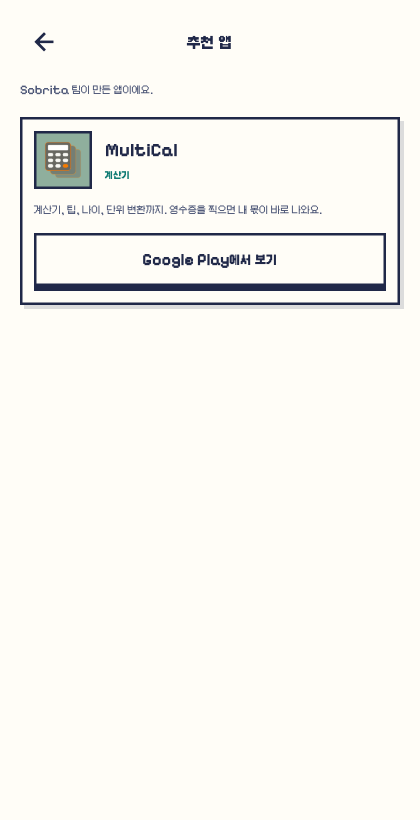
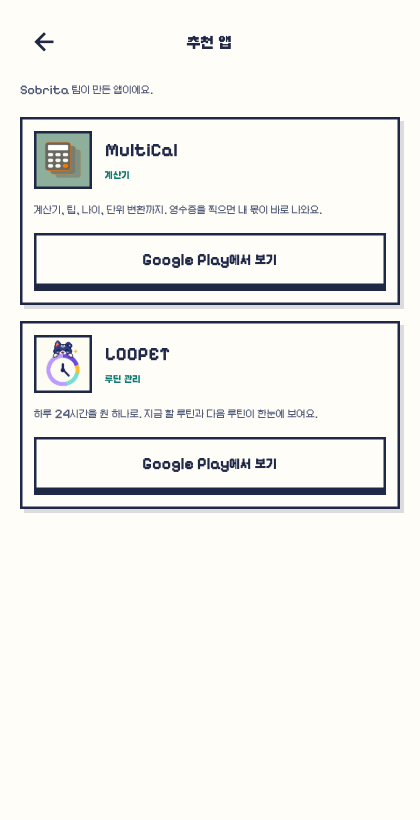
feat: add LOOPET to recommended apps
Include the official LOOPET icon, Google Play package, and descriptions in all seven locales. Refresh the Spanish and Korean recommendation screen goldens.

Validation: all 8 tests in test/our_apps_test.dart passed; git diff --check passed.

Changed region(s): [[0.031, 0.3659, 0.9595, 0.6402]]

diff --git a/lib/data/our_apps.dart b/lib/data/our_apps.dart
@@ -47,4 +47,11 @@ final ourApps = <OurApp>[
     kind: (l10n) => l10n.ourAppsMultiCalKind,
     blurb: (l10n) => l10n.ourAppsMultiCalBlurb,
   ),
+  OurApp(
+    packageName: 'com.dayround.app',
+    name: 'LOOPET',
+    icon: 'assets/apps/loopet.png',
+    kind: (l10n) => l10n.ourAppsLoopetKind,
+    blurb: (l10n) => l10n.ourAppsLoopetBlurb,
+  ),
 ];
